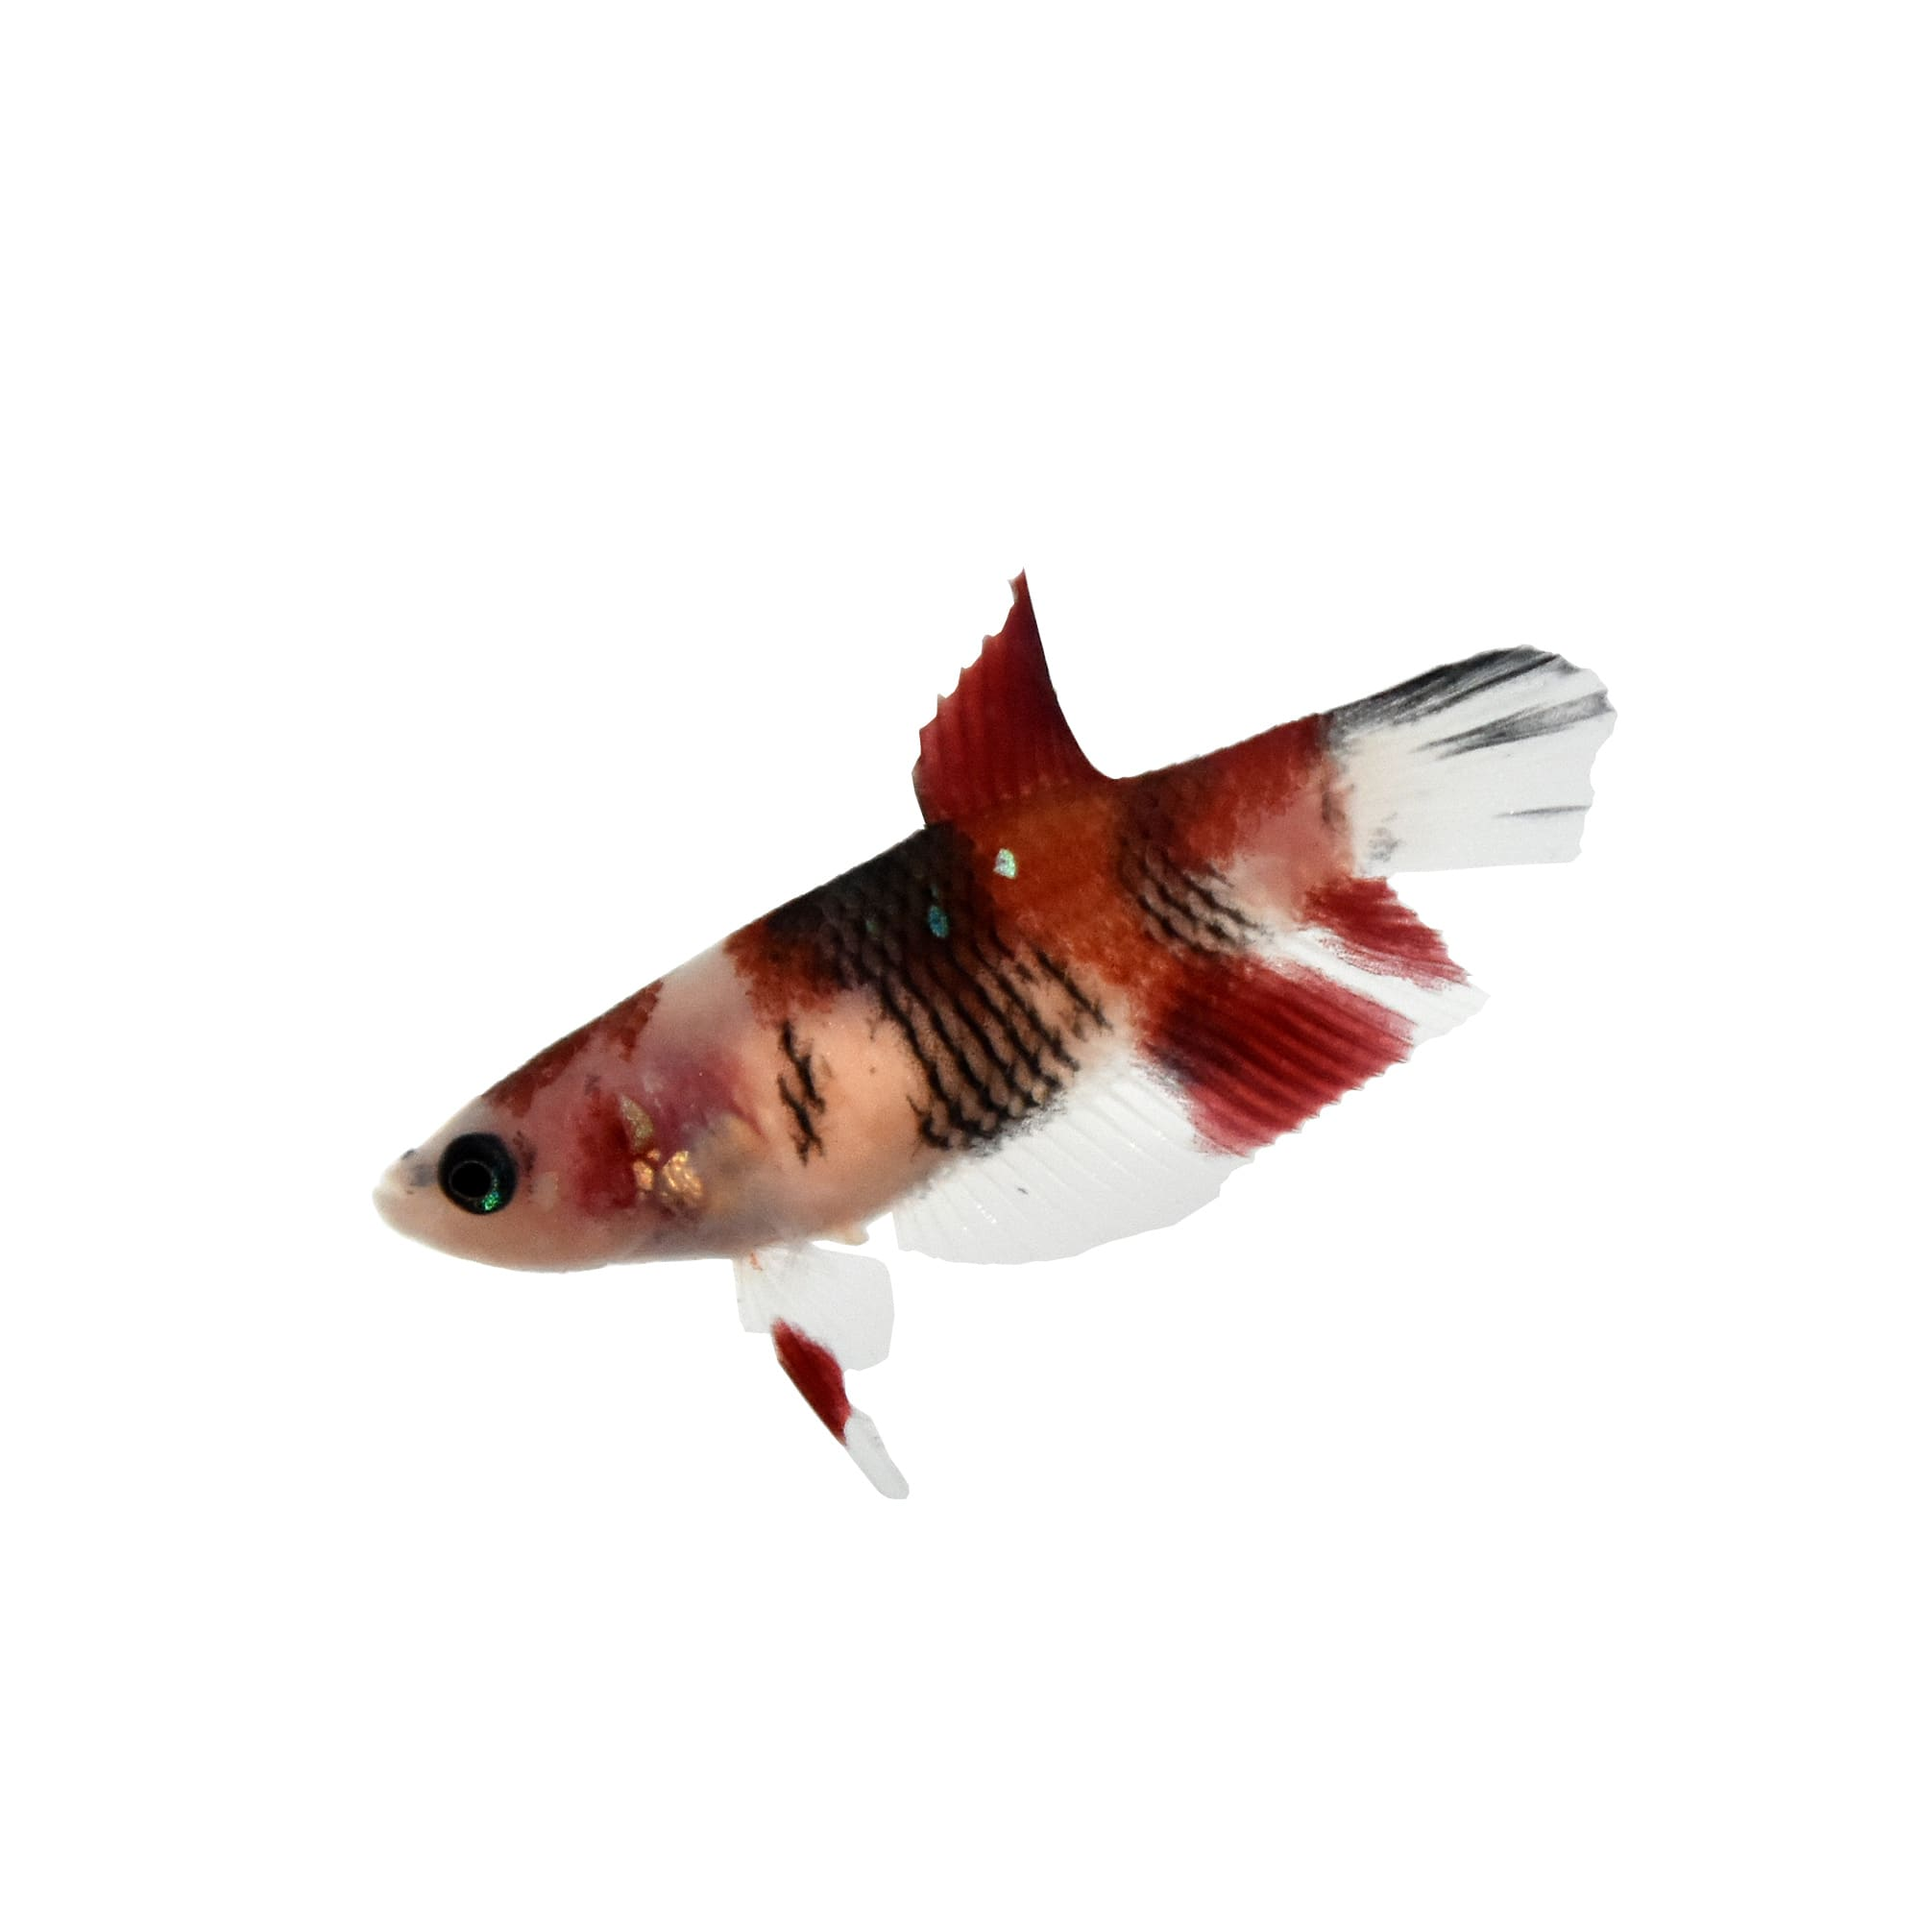
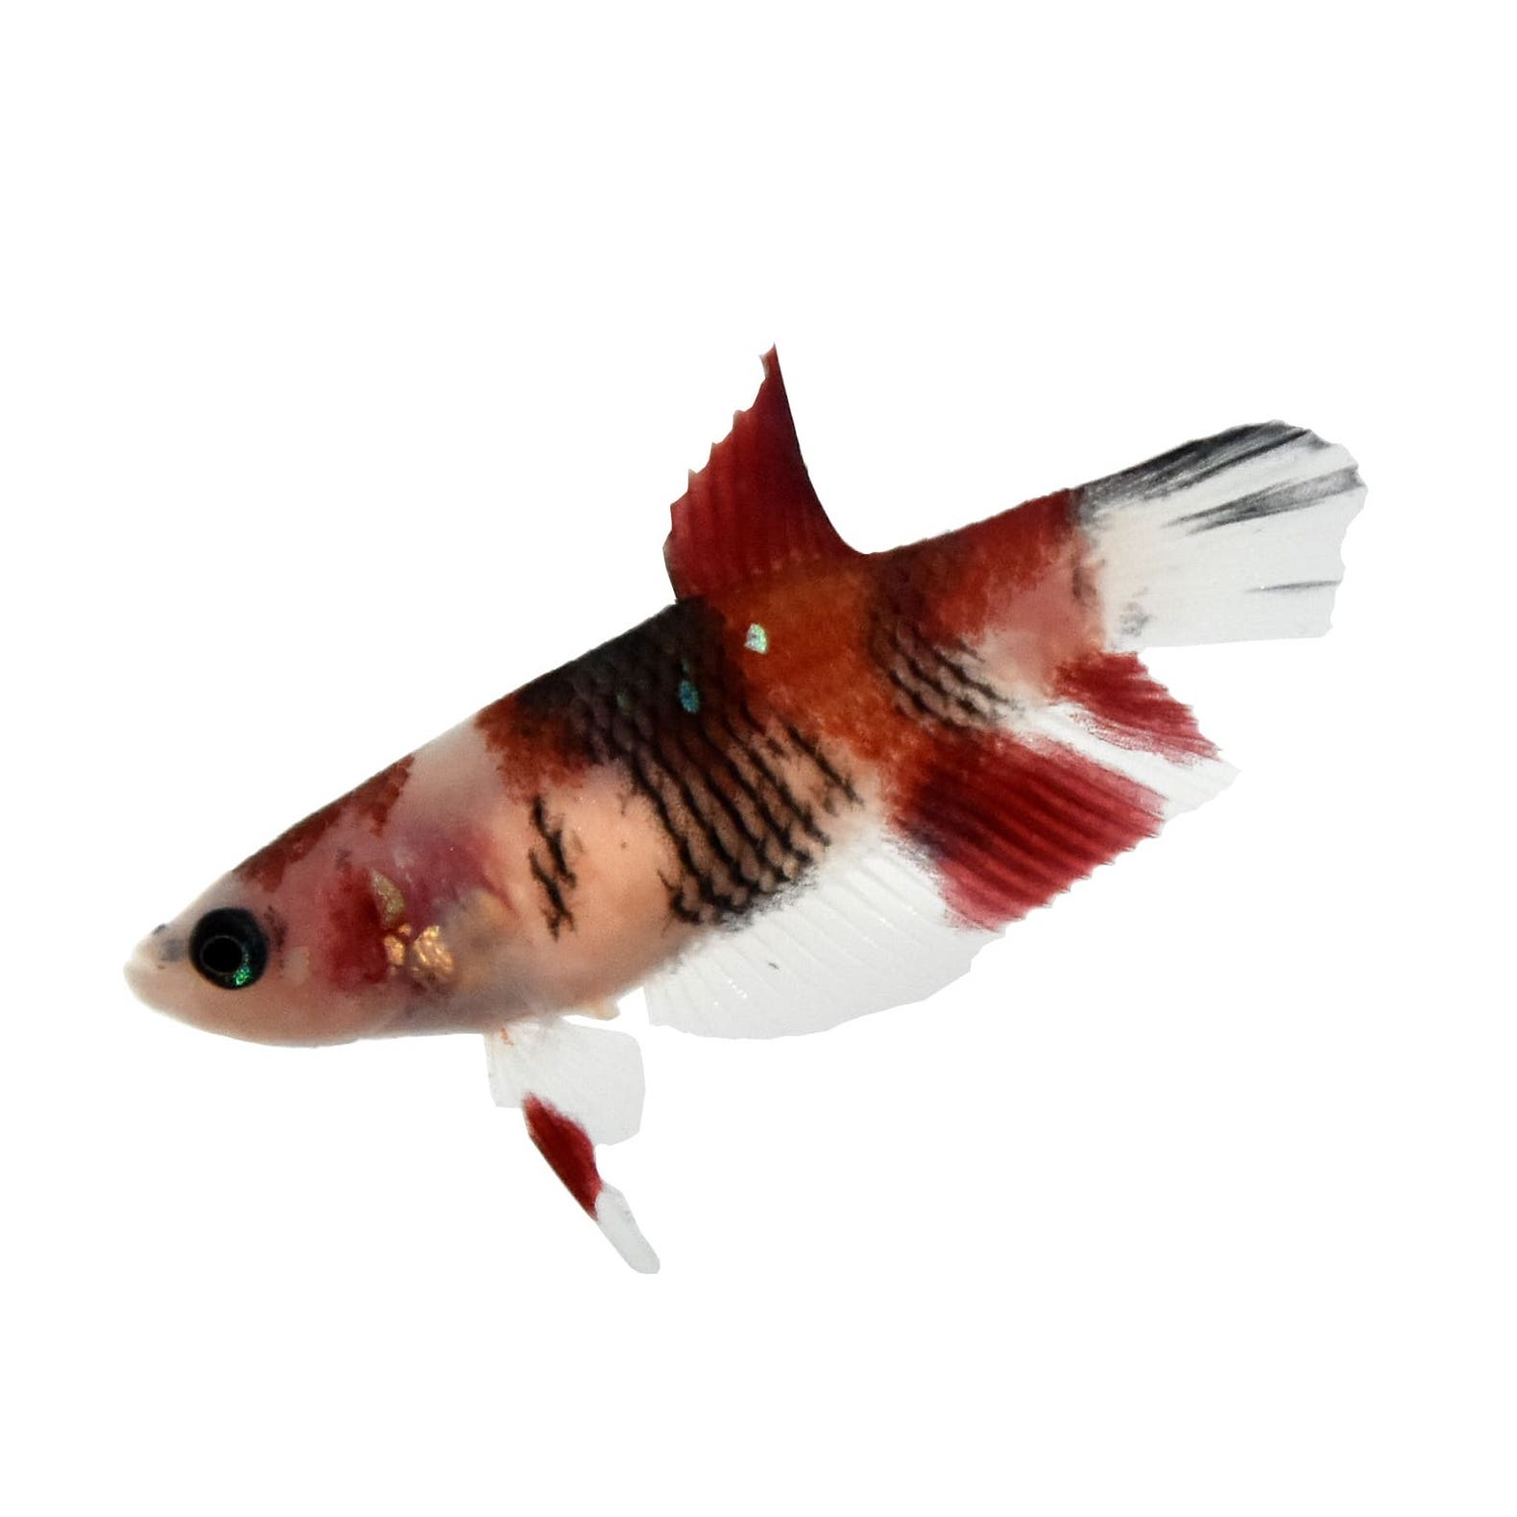
squared image resolutions and wrote product tier information

Changed region(s): [[0.062, 0.2171, 0.8994, 0.8373]]

diff --git a/index.html b/index.html
@@ -60,21 +60,22 @@
                 <video id="video" src="images/bettagif.mp4" muted autoplay loop></video>
             </div>
             <div id="vidtext">
-                
+
                 <ul>
                     <li>Lorem ipsum dolor sit amet, consectetur adipiscing elit. Fusce feugiat, libero in luctus
-                rhoncus, neque felis faucibus sem, sed lacinia quam quam vel dolor. Vestibulum eu neque efficitur,
-                elementum erat id, tincidunt leo. </li>
+                        rhoncus, neque felis faucibus sem, sed lacinia quam quam vel dolor. Vestibulum eu neque
+                        efficitur,
+                        elementum erat id, tincidunt leo. </li>
                     <li>Nullam quam augue, commodo sit amet vehicula ac, ultricies et dui.
-                Mauris posuere fringilla arcu, eget tempus augue hendrerit sed. Duis iaculis ipsum nibh. Nulla varius
-                neque in massa aliquet porttitor. </li>
+                        Mauris posuere fringilla arcu, eget tempus augue hendrerit sed. Duis iaculis ipsum nibh. Nulla
+                        varius
+                        neque in massa aliquet porttitor. </li>
                     <li>Praesent viverra dignissim rhoncus. Fusce viverra, magna et pretium
-                vestibulum, purus orci euismod ipsum, ut bibendum magna dui sed nulla.</li> 
-                    <li>Etiam posuere purus id ipsum dignissim, et vulputate tellus convallis. Etiam eget aliquam elit.</li>
+                        vestibulum, purus orci euismod ipsum, ut bibendum magna dui sed nulla.</li>
+                    <li>Etiam posuere purus id ipsum dignissim, et vulputate tellus convallis. Etiam eget aliquam elit.
+                    </li>
+                </ul>
 
-            
-                </ul>    
-  
             </div>
         </div>
 
@@ -85,25 +86,27 @@
         <div id="products">
             <div class="tier">
                 <img src="images/male.jpeg" id="male" class="tierpic">
-                <h3>Juvenile (unsexed) Koi Betta</h3>
-                Lorem ipsum dolor sit amet, consectetur adipiscing elit. Fusce feugiat, libero in luctus rhoncus, neque
-                felis faucibus sem, sed lacinia quam quam vel dolor. Vestibulum eu neque efficitur, elementum erat id,
-                tincidunt leo.
+                <h3>Male Koi Betta</h3>
+                Male bettas are generally larger than females, have longer fins and are much more aggressive. Male
+                bettas are extremely territorial and should never be kept with other males, or kept with females
+                short-term for the purpose of breeding. Otherwise, please house your male bettas SEPARATELY!
             </div>
             <div class="tier">
                 <img src="images/female.jpeg" id="female" class="tierpic">
                 <h3>Female Koi Betta</h3>
-                Lorem ipsum dolor sit amet, consectetur adipiscing elit. Fusce feugiat, libero in luctus rhoncus, neque
-                felis faucibus sem, sed lacinia quam quam vel dolor. Vestibulum eu neque efficitur, elementum erat id,
-                tincidunt leo.
+                Female bettas are smaller and generally have smaller fins while being less aggressive than males. In
+                ideal (heavily planted, large aquariums with many hiding spots) conditions, a few may be kept together
+                as a "sorority." Beware though as each individual fish is different, and fights may break out if
+                individuals are incompatible!
             </div>
             <div class="tier">
                 <img src="images/juvenile.jpeg" id="juvenile" class="tierpic">
 
-                <h3>Male Koi Betta</h3>
-                Lorem ipsum dolor sit amet, consectetur adipiscing elit. Fusce feugiat, libero in luctus rhoncus, neque
-                felis faucibus sem, sed lacinia quam quam vel dolor. Vestibulum eu neque efficitur, elementum erat id,
-                tincidunt leo.
+                <h3>Juvenile (unsexed) Koi Betta</h3>
+                Juvenile bettas are young bettas that have not yet grown to the point of sexual maturity and can not be
+                differentiated based on sex. In koi bettas, they tend to be translucent and colourless, also known as a
+                "cellophane" pattern. As they mature, some koi bettas will stay this colour while others will develop
+                magnificent red and black markings.
             </div>
         </div>
 
@@ -121,7 +124,7 @@
 
     </main>
 
-    
+
 
 
 </body>

diff --git a/styles/style.css b/styles/style.css
@@ -134,11 +134,18 @@ li {
         border:1px solid white;
         margin:auto;
         padding:3rem;
+        background-color: rgba(176, 41, 39, 0.8);
 }
 
 .tierpic {
     width:100%;
-    height:auto;
+    max-height:30fr;
+    opacity:0.5;
+}
+
+.tierpic:hover {
+    opacity:1;
+    transition:0.5s;
 }
 
 #newsletter {
